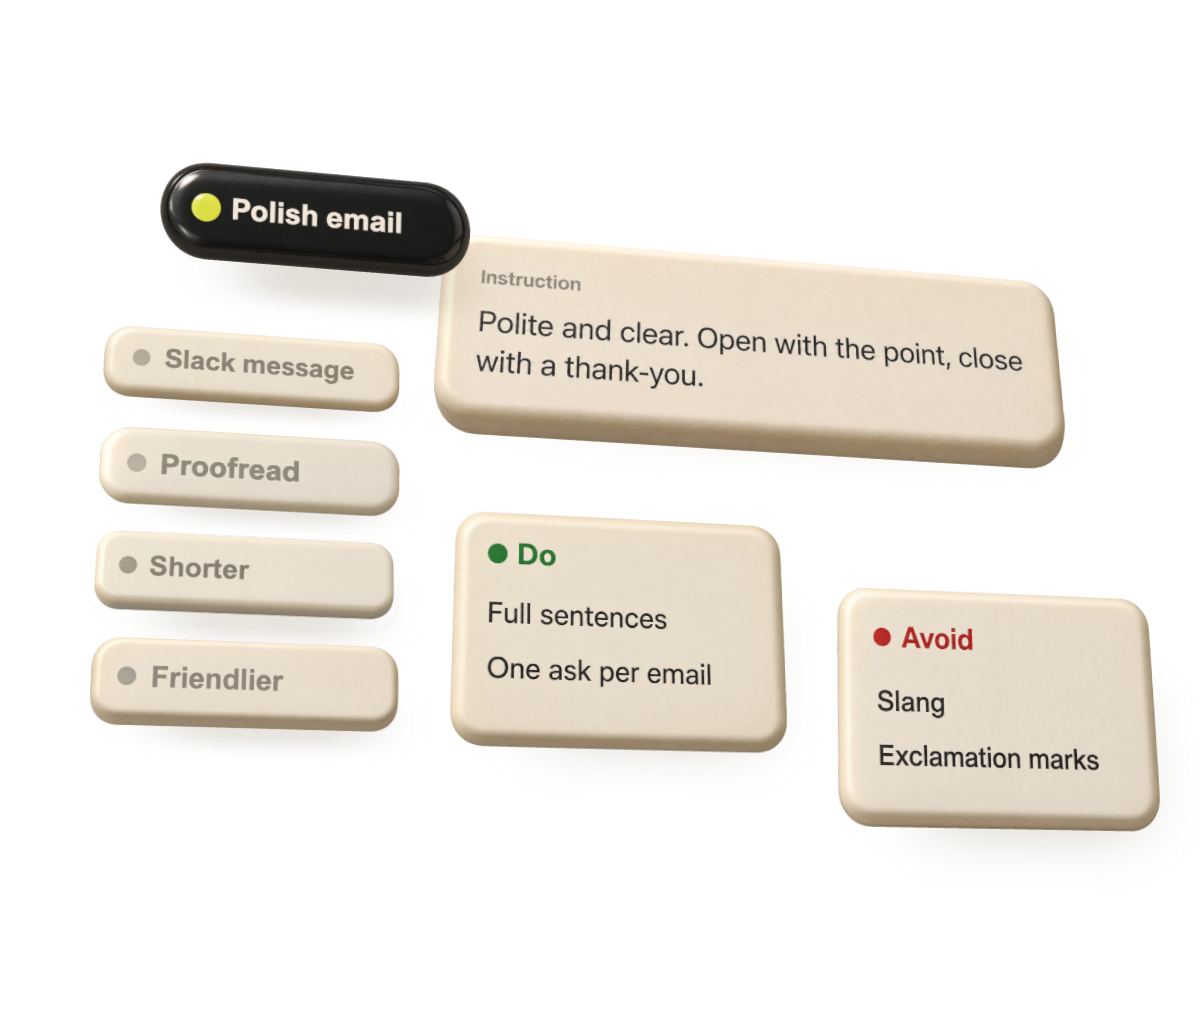
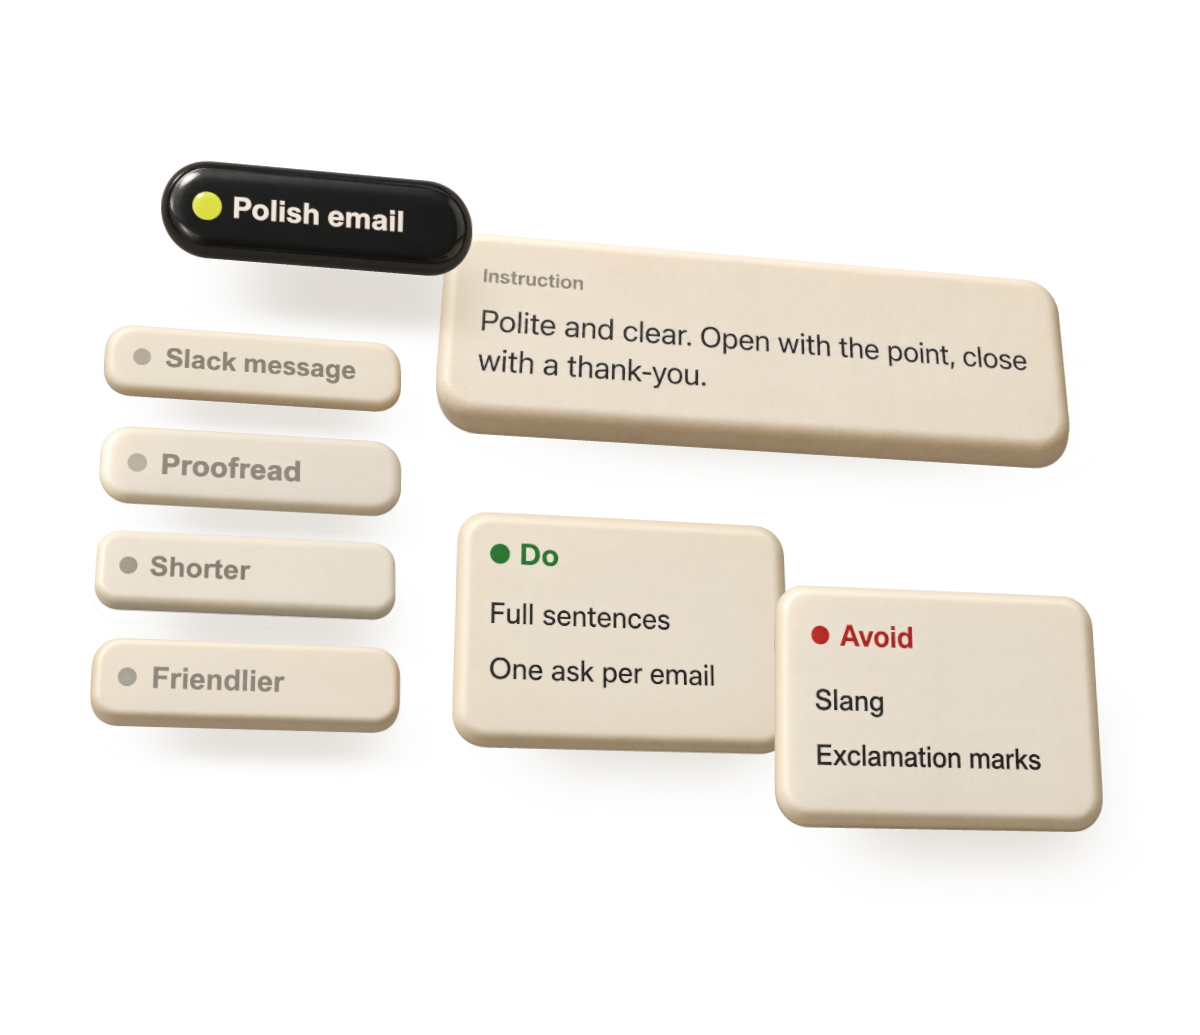
Landing page: sticky header, carousel fixes, visible shadows, plainer copy
The header leaves the hero and sticks to the top, transparent over the hero
and paper-backed with a blur once scrolled; anchors land below it. The
carousel heading gets its section padding back, the arrows and dots sit
above the scene layer, and each stage bleeds to the right as well, so
proofread's fixes float past the card instead of being clipped. The Avoid
tile tucks over Do. Sprite shadows sit further back and offset more, so the
turned camera reveals them under every piece. Stills carry a version and
are re-exported, including the takes panel's. Copy: the examples section is
now 'In practice' with four before-and-after drafts, the privacy small print
is one plain line, and the footer loses its tagline and disk-image note.

diff --git a/site/index.html b/site/index.html
@@ -27,6 +27,7 @@
 }
 * { box-sizing: border-box; }
 html { -webkit-text-size-adjust: 100%; }
+html { scroll-padding-top: 120px; } /* anchors land below the sticky header */
 body { margin: 0; background: var(--paper); color: var(--ink); font: 18px/1.5 var(--text); }
 a { color: inherit; }
 img, video { max-width: 100%; height: auto; display: block; }
@@ -57,9 +58,13 @@ img, video { max-width: 100%; height: auto; display: block; }
 
 /* Hero: one headline, one object, one idea. The photo fills the whole hero, masthead included;
    its composition leaves the left half empty for the words, so the hero keeps close to the photo's 16:9. */
-.hero { position: relative; display: flex; flex-direction: column; height: clamp(600px, min(56.25vw, 100vh), 1000px); background: #F1DEC9; overflow: hidden; }
+.hero { position: relative; display: flex; flex-direction: column; box-sizing: border-box; padding-top: 109px; height: clamp(600px, min(56.25vw, 100vh), 1000px); background: #F1DEC9; overflow: hidden; }
 .hero-bg { position: absolute; inset: 0; width: 100%; height: 100%; max-width: none; object-fit: cover; object-position: 0 50%; }
-.hero > header, .hero-body { position: relative; z-index: 1; }
+header { position: sticky; top: 0; z-index: 30; margin-bottom: -109px; transition: background-color .25s ease, backdrop-filter .25s ease; }
+header .wrap { max-width: none; padding: 0 clamp(24px, 6vw, 96px); }
+header.scrolled { background: rgba(243, 235, 221, .88); -webkit-backdrop-filter: blur(12px); backdrop-filter: blur(12px); }
+header.scrolled .rule { opacity: .6; }
+.hero-body { position: relative; z-index: 1; }
 .hero .wrap { max-width: none; padding: 0 clamp(24px, 6vw, 96px); }
 .hero-copy { max-width: min(520px, 40vw); padding-top: clamp(28px, 5vw, 88px); }
 .hero h1 { font-size: clamp(52px, 5.8vw, 96px); }
@@ -91,6 +96,7 @@ section h2 { font-size: clamp(52px, 6.4vw, 84px); }
 .voice-row .label { color: var(--muted); padding-top: 8px; }
 .voice-row h3 { font: 700 38px/1 var(--display); margin: 0; }
 .voice-row p { font-size: 28px; line-height: 1.35; margin: 0; }
+.voice-row .from { display: block; font-size: 20px; line-height: 1.4; color: var(--muted); margin-bottom: 10px; }
 .voice-note { color: var(--muted); max-width: 40em; }
 
 /* Product */
@@ -107,7 +113,7 @@ section h2 { font-size: clamp(52px, 6.4vw, 84px); }
 .product h2 { margin-bottom: 20px; }
 .product .caption { margin-top: 10px; }
 .features { padding-top: 96px; }
-.carousel-head { display: flex; align-items: flex-end; justify-content: space-between; gap: 24px; margin-bottom: 36px; }
+.carousel-head { position: relative; z-index: 3; display: flex; align-items: flex-end; justify-content: space-between; gap: 24px; margin-bottom: 36px; }
 .carousel-nav { display: flex; gap: 10px; }
 .cnav { width: 52px; height: 52px; border-radius: 50%; border: 1px solid var(--ink); background: transparent; color: var(--ink); font: 22px var(--text); cursor: pointer; }
 .cnav:hover { background: var(--ink); color: var(--paper); }
@@ -129,7 +135,7 @@ section h2 { font-size: clamp(52px, 6.4vw, 84px); }
 #slide-tone { background-image: url(img/slides/bg/8.webp); }
 #slide-languages { background-image: url(img/slides/bg/9.webp); }
 
-.slide-stage { position: absolute; top: -13%; right: 0; bottom: -13%; width: 60%; } /* taller than the card, so pieces can float past its edges */
+.slide-stage { position: absolute; top: -13%; right: -6%; bottom: -13%; width: 66%; } /* taller than the card, so pieces can float past its edges */
 .slide-stage > img { display: block; width: 100%; height: 100%; object-fit: contain; transition: opacity .5s ease; }
 .slide-stage canvas { position: absolute; inset: 0; }
 .slide-stage.live > img { opacity: 0; }
@@ -137,12 +143,12 @@ section h2 { font-size: clamp(52px, 6.4vw, 84px); }
 .slide-copy .label { color: var(--ink); margin-bottom: 14px; }
 .slide-copy h3 { font: 700 clamp(30px, 3.4vw, 44px)/1 var(--display); margin: 0 0 14px; }
 .slide-copy p { font-size: clamp(16px, 1.5vw, 19px); line-height: 1.45; margin: 0; }
-.dots { display: flex; gap: 8px; margin-top: 22px; }
+.dots { position: relative; z-index: 3; display: flex; gap: 8px; margin-top: 22px; }
 .dots button { width: 9px; height: 9px; padding: 0; border-radius: 50%; border: 0; background: var(--ink); opacity: .22; cursor: pointer; }
 .dots button[aria-current="true"] { opacity: 1; }
 @media (max-width: 720px) {
   .slide { aspect-ratio: auto; display: grid; grid-template-columns: minmax(0, 1fr); }
-  .slide-stage { position: relative; top: auto; bottom: auto; width: 100%; aspect-ratio: 4 / 3; }
+  .slide-stage { position: relative; top: auto; right: auto; bottom: auto; width: 100%; aspect-ratio: 4 / 3; }
   .slide-copy { position: static; transform: none; width: auto; padding: 4px 22px 26px; }
   .carousel-nav { display: none; }
 }
@@ -301,12 +307,6 @@ fill="currentColor" stroke="none">
 </symbol>
 </svg>
 
-<div class="hero">
-  <!-- Plays once and holds on the three printed takes. Source frames: brand/hero/. -->
-  <video class="hero-bg" poster="img/hero.jpg" width="1920" height="1080" muted autoplay playsinline preload="auto"
-         aria-label="The Takes device with a draft card reading “Please review the deck by 3.” A hand rolls the mode from Short to Soft, turns the dial to 3 takes and presses Return; three warmer versions print out one after another.">
-    <source src="img/hero.mp4" type="video/mp4">
-  </video>
   <header>
     <div class="wrap">
       <div class="mast">
@@ -321,6 +321,12 @@ fill="currentColor" stroke="none">
       <hr class="rule">
     </div>
   </header>
+<div class="hero">
+  <!-- Plays once and holds on the three printed takes. Source frames: brand/hero/. -->
+  <video class="hero-bg" poster="img/hero.jpg" width="1920" height="1080" muted autoplay playsinline preload="auto"
+         aria-label="The Takes device with a draft card reading “Please review the deck by 3.” A hand rolls the mode from Short to Soft, turns the dial to 3 takes and presses Return; three warmer versions print out one after another.">
+    <source src="img/hero.mp4" type="video/mp4">
+  </video>
   <section class="hero-body">
     <div class="wrap">
       <div class="hero-copy">
@@ -350,13 +356,14 @@ fill="currentColor" stroke="none">
 
   <section class="paper">
     <div class="wrap">
-      <div class="label eyebrow">Voice</div>
-      <h2 class="display">A little warmer. Still useful.</h2>
-      <p class="lead">Plain language. A practical request. A small amount of personality. Pick a preset, and Takes writes the same message a few ways.</p>
+      <div class="label eyebrow">In practice</div>
+      <h2 class="display">Rough in. Right out.</h2>
+      <p class="lead">Four everyday drafts, one preset each. Takes keeps what you meant and fixes how it lands.</p>
       <div class="voice">
-        <div class="voice-row"><div class="label">01</div><h3>Shorter</h3><p>Please review the deck by 3.</p></div>
-        <div class="voice-row"><div class="label">02</div><h3>Warmer</h3><p>Could you give the deck a quick look by 3? Fresh eyes to the rescue!</p></div>
-        <div class="voice-row"><div class="label">03</div><h3>More formal</h3><p>Could you please review the deck by 3? Thank you.</p></div>
+        <div class="voice-row"><div class="label">01</div><h3>Proofread</h3><p><span class="from">thanks for the quick reveiw, ill send the deck tommorow</span>Thanks for the quick review. I'll send the deck tomorrow.</p></div>
+        <div class="voice-row"><div class="label">02</div><h3>Shorter</h3><p><span class="from">hey so I was thinking that maybe, if it works for everyone, we could possibly move the sync to thursday, let me know what you all think</span>Could we move the sync to Thursday? Let me know.</p></div>
+        <div class="voice-row"><div class="label">03</div><h3>Polish email</h3><p><span class="from">can u resend the invoice its missing the PO number</span>Could you resend the invoice? The PO number is missing.</p></div>
+        <div class="voice-row"><div class="label">04</div><h3>Translate</h3><p><span class="from">Running ten minutes late, start without me.</span>Ich komme zehn Minuten später, fangt ohne mich an.</p></div>
       </div>
     </div>
   </section>
@@ -365,51 +372,51 @@ fill="currentColor" stroke="none">
     <div class="wrap">
       <div class="label eyebrow">The product</div>
       <h2 class="display">Choice is the product.</h2>
-      <div class="layers" data-scene="takes" data-sprites="img/layers/parts" tabindex="0" aria-label="The Takes panel as floating layers: the draft above three takes of a Slack message. Point at a take, or use the arrow keys, to bring it to the front."><img src="img/layers/takes-front.webp" width="1500" height="1000" alt="The Takes panel as floating layers: the draft above three takes of a Slack message, the middle take lifted to the front"></div>
+      <div class="layers" data-scene="takes" data-sprites="img/layers/parts" tabindex="0" aria-label="The Takes panel as floating layers: the draft above three takes of a Slack message. Point at a take, or use the arrow keys, to bring it to the front."><img src="img/layers/takes-front.webp?v=4" width="1500" height="1000" alt="The Takes panel as floating layers: the draft above three takes of a Slack message, the middle take lifted to the front"></div>
       <p class="caption">Compare complete alternatives, inspect changes, refine a selected take, then paste it back.</p>
     </div>
   </section>
 
-  <section id="features" class="paper features" style="padding-top: 0" aria-roledescription="carousel" aria-label="Features">
+  <section id="features" class="paper features" aria-roledescription="carousel" aria-label="Features">
     <div class="wrap carousel-head">
       <h2 class="display">Also in the box.</h2>
       <div class="carousel-nav"><button type="button" class="cnav" data-dir="-1" aria-label="Previous feature">←</button><button type="button" class="cnav" data-dir="1" aria-label="Next feature">→</button></div>
     </div>
     <ol class="track" tabindex="0" aria-label="Features, scroll sideways or use the arrow keys">
         <li class="slide" id="slide-shortcut" aria-label="1 of 9: Everything has a shortcut.">
-          <div class="slide-stage" data-scene="shortcut" data-sprites="img/slides/parts/shortcut"><img src="img/slides/stills/shortcut.webp" width="1200" height="1035" alt="A message field with a rough Slack draft, the Control, Option and Space keys in front of it like a keyboard, and the Slack message preset picked"></div>
+          <div class="slide-stage" data-scene="shortcut" data-sprites="img/slides/parts/shortcut"><img src="img/slides/stills/shortcut.webp?v=4" width="1200" height="1035" alt="A message field with a rough Slack draft, the Control, Option and Space keys in front of it like a keyboard, and the Slack message preset picked"></div>
           <div class="slide-copy"><div class="label">Shortcuts</div><h3>Everything has a shortcut.</h3><p>Control + Option + Space opens Takes with your draft, in any app. Every move after that has a shortcut too, so each kind of use stays fast: pick a preset, jump to a take, paste.</p></div>
         </li>
         <li class="slide" id="slide-presets" aria-label="2 of 9: Configured, personal style">
-          <div class="slide-stage" data-scene="presets" data-sprites="img/slides/parts/presets"><img src="img/slides/stills/presets.webp" width="1200" height="1035" alt="The Polish email preset selected in the preset list, with its instruction, its Do rules and its Avoid rules on separate tiles" loading="lazy"></div>
+          <div class="slide-stage" data-scene="presets" data-sprites="img/slides/parts/presets"><img src="img/slides/stills/presets.webp?v=4" width="1200" height="1035" alt="The Polish email preset selected in the preset list, with its instruction, its Do rules and its Avoid rules on separate tiles" loading="lazy"></div>
           <div class="slide-copy"><div class="label">Presets</div><h3>Configured, personal style</h3><p>Set Do and Avoid rules, voice rules for every preset, and up to five examples of how you write.</p></div>
         </li>
         <li class="slide" id="slide-proofread" aria-label="3 of 9: Proofread, marked">
-          <div class="slide-stage" data-scene="proofread" data-sprites="img/slides/parts/proofread"><img src="img/slides/stills/proofread.webp" width="1200" height="1035" alt="A proofread take with three fixes marked, reveiw to review, tommorow to tomorrow and its to it's, and the fixes floating beside it" loading="lazy"></div>
+          <div class="slide-stage" data-scene="proofread" data-sprites="img/slides/parts/proofread"><img src="img/slides/stills/proofread.webp?v=4" width="1200" height="1035" alt="A proofread take with three fixes marked, reveiw to review, tommorow to tomorrow and its to it's, and the fixes floating beside it" loading="lazy"></div>
           <div class="slide-copy"><div class="label">Proofread</div><h3>Proofread, marked</h3><p>Fixes spelling, grammar and punctuation, and keeps your words. Each fix is marked; when nothing needs fixing, Takes says so.</p></div>
         </li>
         <li class="slide" id="coach" aria-label="4 of 9: Write it better next time.">
-          <div class="slide-stage" data-scene="coach" data-sprites="img/slides/parts/coach"><img src="img/slides/stills/coach.webp" width="1200" height="1035" alt="A draft with three flagged phrases and the English coach below it, its fixes lifted out: If you will send to If you send, until tomorrow to by tomorrow, make you a feedback to give you feedback" loading="lazy"></div>
+          <div class="slide-stage" data-scene="coach" data-sprites="img/slides/parts/coach"><img src="img/slides/stills/coach.webp?v=4" width="1200" height="1035" alt="A draft with three flagged phrases and the English coach below it, its fixes lifted out: If you will send to If you send, until tomorrow to by tomorrow, make you a feedback to give you feedback" loading="lazy"></div>
           <div class="slide-copy"><div class="label">English Coach</div><h3>Write it better next time.</h3><p>Turn on the English coach and it spots the mistakes your takes fix, notices the ones you repeat, and teaches them back with your own sentences.</p></div>
         </li>
         <li class="slide" id="slide-local" aria-label="5 of 9: A model on your Mac">
-          <div class="slide-stage" data-scene="local" data-sprites="img/slides/parts/local"><img src="img/slides/stills/local.webp" width="1200" height="1035" alt="A dark Engine card reading Local model, Ollama found on this Mac, with the model menu over it and an On this Mac badge" loading="lazy"></div>
+          <div class="slide-stage" data-scene="local" data-sprites="img/slides/parts/local"><img src="img/slides/stills/local.webp?v=4" width="1200" height="1035" alt="A dark Engine card reading Local model, Ollama found on this Mac, with the model menu over it and an On this Mac badge" loading="lazy"></div>
           <div class="slide-copy"><div class="label">Local model</div><h3>A model on your Mac</h3><p>Use Ollama or LM Studio instead of Claude, and your drafts never leave the Mac.</p></div>
         </li>
         <li class="slide" id="slide-instant" aria-label="6 of 9: Right away">
-          <div class="slide-stage" data-scene="instant" data-sprites="img/slides/parts/instant"><img src="img/slides/stills/instant.webp" width="1200" height="1035" alt="A pasted message in a field, a Pasted toast with Command Z to undo, and a yellow Return key" loading="lazy"></div>
+          <div class="slide-stage" data-scene="instant" data-sprites="img/slides/parts/instant"><img src="img/slides/stills/instant.webp?v=4" width="1200" height="1035" alt="A pasted message in a field, a Pasted toast with Command Z to undo, and a yellow Return key" loading="lazy"></div>
           <div class="slide-copy"><div class="label">Instant paste</div><h3>Right away</h3><p>Give a preset its own shortcut and it writes and pastes, no panel.</p></div>
         </li>
         <li class="slide" id="slide-dictation" aria-label="7 of 9: Say it">
-          <div class="slide-stage" data-scene="dictation" data-sprites="img/slides/parts/dictation"><img src="img/slides/stills/dictation.webp" width="1200" height="1035" alt="A draft being dictated, with a blue waveform and a Dictating label" loading="lazy"></div>
+          <div class="slide-stage" data-scene="dictation" data-sprites="img/slides/parts/dictation"><img src="img/slides/stills/dictation.webp?v=4" width="1200" height="1035" alt="A draft being dictated, with a blue waveform and a Dictating label" loading="lazy"></div>
           <div class="slide-copy"><div class="label">Dictation</div><h3>Say it</h3><p>Dictate a draft. Speech stays on your Mac.</p></div>
         </li>
         <li class="slide" id="slide-tone" aria-label="8 of 9: Context and tone">
-          <div class="slide-stage" data-scene="tone" data-sprites="img/slides/parts/tone"><img src="img/slides/stills/tone.webp" width="1200" height="1035" alt="A take replying to Any update on the launch, with a note that it may read as warm and polite" loading="lazy"></div>
+          <div class="slide-stage" data-scene="tone" data-sprites="img/slides/parts/tone"><img src="img/slides/stills/tone.webp?v=4" width="1200" height="1035" alt="A take replying to Any update on the launch, with a note that it may read as warm and polite" loading="lazy"></div>
           <div class="slide-copy"><div class="label">Context and tone</div><h3>Context and tone</h3><p>Add the message you're answering. See how each take may land.</p></div>
         </li>
         <li class="slide" id="slide-languages" aria-label="9 of 9: Your languages">
-          <div class="slide-stage" data-scene="languages" data-sprites="img/slides/parts/languages"><img src="img/slides/stills/languages.webp" width="1200" height="1035" alt="The same take in German, Spanish and English, stacked" loading="lazy"></div>
+          <div class="slide-stage" data-scene="languages" data-sprites="img/slides/parts/languages"><img src="img/slides/stills/languages.webp?v=4" width="1200" height="1035" alt="The same take in German, Spanish and English, stacked" loading="lazy"></div>
           <div class="slide-copy"><div class="label">Languages</div><h3>Your languages</h3><p>Reply in any language, with a translate preset for each one you write in.</p></div>
         </li>
     </ol>
@@ -424,7 +431,7 @@ fill="currentColor" stroke="none">
         <div class="truth-row"><div class="label">Your connection</div><p>Drafts, instructions and voice examples go to Anthropic through your Claude connection, to OpenAI through your ChatGPT plan, to the provider whose key you added, or nowhere, with a model on your Mac.</p></div>
         <div class="truth-row"><div class="label">Your decision</div><p>Takes pastes the version you choose into the original field. You decide when to send.</p></div>
       </div>
-      <p class="small">Only the focused field or selection is read, and only when you press the shortcut. The app has no developer-run server and no analytics. The English coach is off until you turn it on; it adds about 1,000 tokens per English draft, and keeps only the phrase around each mistake, on your Mac, for 30 days. This website counts visits with GoatCounter, without cookies. <a href="https://github.com/bar-amir/takes/blob/main/PRIVACY.md">Read the privacy notice</a>.</p>
+      <p class="small">Takes collects no data. Your drafts go only to the model you chose, and nowhere at all with a model on your Mac. <a href="https://github.com/bar-amir/takes/blob/main/PRIVACY.md">Privacy notice</a>.</p>
     </div>
   </section>
 
@@ -443,9 +450,7 @@ fill="currentColor" stroke="none">
     <div class="wrap">
       <div>
         <h2 class="display caps">Write it rough.<br>Pick your take.</h2>
-        <div class="label">Write. Choose. Paste.</div>
         <a class="btn btn-ink" href="https://github.com/bar-amir/takes/releases/latest/download/Takes.dmg" data-goatcounter-click="download-footer" data-goatcounter-title="Download for Mac (footer)">Download for Mac</a>
-        <p class="small">A disk image, about 6 MB. No account needed.</p>
       </div>
       <svg class="mark" viewBox="0 0 1993 2002" role="img" aria-label="Takes mark"><use href="#t"/></svg>
     </div>
@@ -480,7 +485,7 @@ fill="currentColor" stroke="none">
     // Each slide's graphic is a live WebGL scene of separately rendered pieces; only the slides on screen keep one.
     const live = new Map(); let lib;
     const wake = async (slide) => { const st = slide.querySelector(".slide-stage"); if (!st || live.has(st)) return; live.set(st, null);
-      try { lib = lib || await import("./js/layers.js?v=11");
+      try { lib = lib || await import("./js/layers.js?v=12");
         if (!live.has(st)) return;
         live.set(st, lib.mount(st, st.dataset.scene, { interactive: true, sprites: st.dataset.sprites, onReady: () => st.classList.add("live") }));
       } catch (err) { console.warn("layers: slide failed", st.dataset.scene, err); live.delete(st); } };
@@ -490,13 +495,17 @@ fill="currentColor" stroke="none">
     if ("IntersectionObserver" in window) section.observe(track);
   })();
 </script>
+<script>
+  // The header floats over the hero, then gets a paper backdrop once the page scrolls.
+  (() => { const h = document.querySelector("header"); const on = () => h.classList.toggle("scrolled", scrollY > 24); addEventListener("scroll", on, { passive: true }); on(); })();
+</script>
 <script type="module">
   // The product shot becomes live once it's near the screen: the same rendered parts, layered in WebGL. The still stays as the fallback.
   const el = document.querySelector(".layers[data-scene]");
   if (el && "IntersectionObserver" in window) {
     const io = new IntersectionObserver(async ([e]) => {
       if (!e.isIntersecting) return; io.disconnect();
-      try { const { mount } = await import("./js/layers.js?v=11"); mount(el, el.dataset.scene, { interactive: true, sprites: el.dataset.sprites }); el.classList.add("live"); }
+      try { const { mount } = await import("./js/layers.js?v=12"); mount(el, el.dataset.scene, { interactive: true, sprites: el.dataset.sprites }); el.classList.add("live"); }
       catch { /* no WebGL or offline: keep the still */ }
     }, { rootMargin: "300px" });
     io.observe(el);

diff --git a/site/js/layers.js b/site/js/layers.js
@@ -171,7 +171,7 @@ const SCENES = {
     root.add(sized(place(f("reveiw", "review"), 3.7, 2.0, 1.0, "fix1"), 1.25));
     root.add(sized(place(f("tommorow", "tomorrow"), 4.3, 0.45, 1.7, "fix2"), 1.25));
     root.add(sized(place(f("its", "it's"), 3.4, -1.3, 2.3, "fix3"), 1.25));
-    return { bounds: [11.8, 5.2], zoom: 1.18 };
+    return { bounds: [11.8, 5.2], zoom: 1.06 };
   },
   presets(renderer, root) {
     ["Polish email", "Slack message", "Proofread", "Shorter", "Friendlier"].forEach((s, i) => {
@@ -184,7 +184,7 @@ const SCENES = {
     const rules = (title, color, items) => (c) => { dot(c, 36, 44, 8, color); text(c, title, 54, 52, { size: 24, weight: 700, color });
       items.forEach((it, i) => text(c, it, 30, 112 + i * 52, { size: 24 })); };
     root.add(place(tile(renderer, { w: 3.0, h: 2.2, r: 0.22, depth: 0.14, draw: rules("Do", C.green, ["Full sentences", "One ask per email"]) }), -0.15, -0.9, 1.2, "do"));
-    root.add(place(tile(renderer, { w: 3.0, h: 2.2, r: 0.22, depth: 0.14, draw: rules("Avoid", C.red, ["Slang", "Exclamation marks"]) }), 3.05, -1.55, 1.9, "avoid"));
+    root.add(place(tile(renderer, { w: 3.0, h: 2.2, r: 0.22, depth: 0.14, draw: rules("Avoid", C.red, ["Slang", "Exclamation marks"]) }), 2.45, -1.55, 1.9, "avoid"));
     return { bounds: [10.6, 5.4], offsetY: -0.35 };
   },
   shortcut(renderer, root) {
@@ -353,9 +353,9 @@ export function mount(el, name, { interactive = false, exportMode = false, part 
   // A sprite's shadow: the higher the piece sits, the further, larger and softer its shadow falls.
   // It is drawn just under the piece, so it falls on whatever sits below it.
   const shade = (o) => { const sh = o.userData.shadow; if (!sh) return; const z = o.position.z, e = Math.min(z, 1.6);
-    sh.position.set(o.position.x + 0.08 + e * 0.14, o.position.y - 0.12 - e * 0.18, z - 0.06);
-    const sc = 1.02 + e * 0.05; sh.scale.set(o.userData.w * sc * o.scale.x, o.userData.h * sc * o.scale.x, 1);
-    sh.material.opacity = 0.3 + e * 0.09; };
+    sh.position.set(o.position.x + 0.14 + e * 0.16, o.position.y - 0.2 - e * 0.2, z - 0.28); // set well back, so the turned camera reveals it
+    const sc = 1.03 + e * 0.05; sh.scale.set(o.userData.w * sc * o.scale.x, o.userData.h * sc * o.scale.x, 1);
+    sh.material.opacity = 0.34 + e * 0.08; };
   const pose = (k) => { root.updateMatrixWorld(); toCam.copy(camera.position); root.worldToLocal(toCam);
     if (takes) takes.forEach((t, i) => lift(t, i === active, k, 2.0, 1.04, 0.97, 0.3));
     root.children.forEach(shade);
